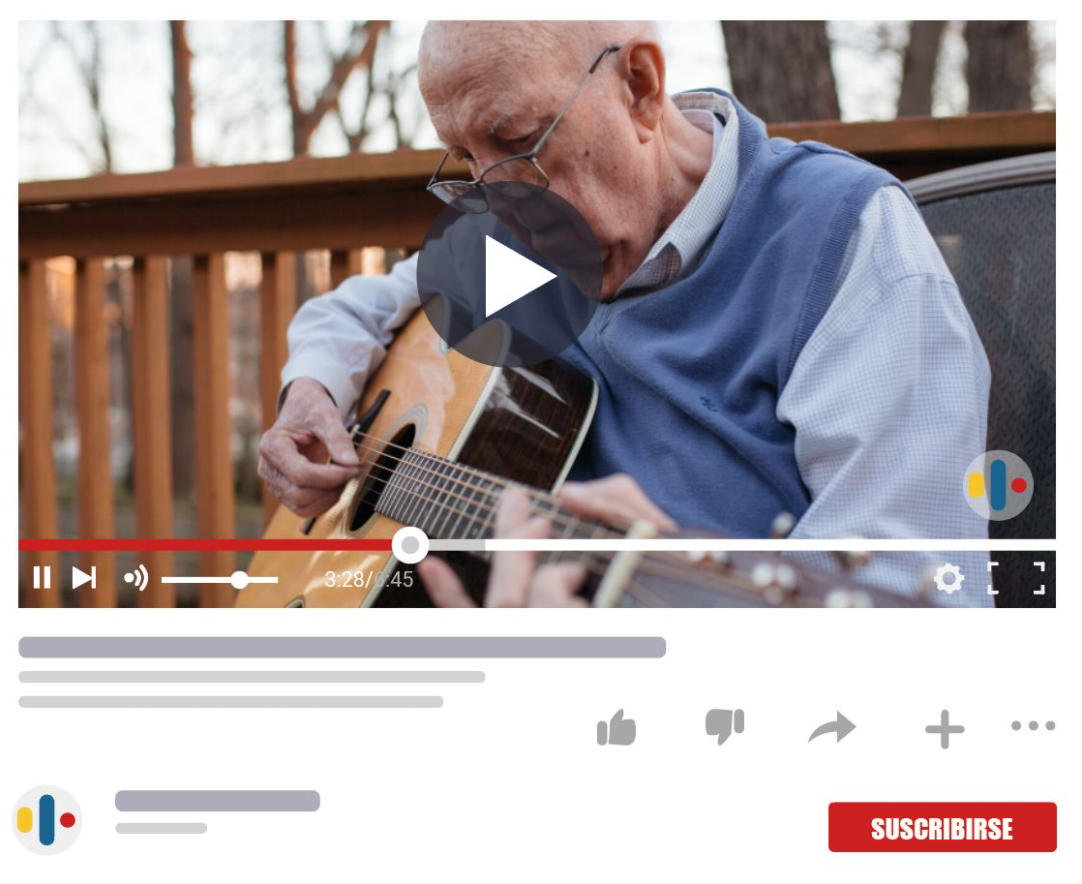
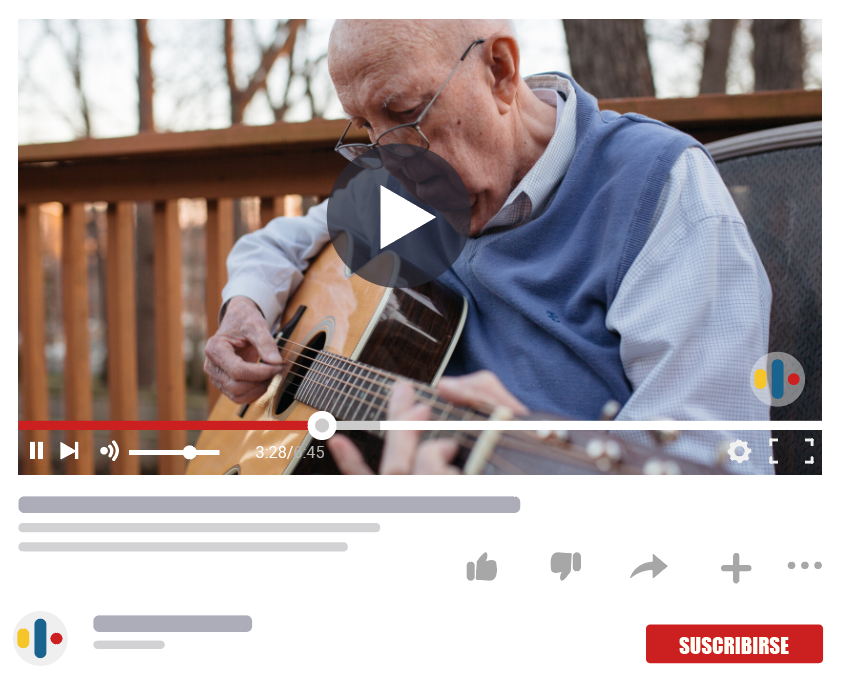
Arreglar width 100% con box-sizing:border box, agregar tercera tarjeta con hipervinculo de toda la tarjeta, quitar navbar celular

diff --git a/index.html b/index.html
@@ -13,7 +13,7 @@
   <div class="header">
     <div class="navbar">
       <div class="header__logo">
-        <img class="header__logo-img" src="/media/Logo.JPG" alt="logo">
+        <img class="header__logo__img" src="/media/Logo.JPG" alt="logo">
         <span>Sesiones</span>
       </div>
       
@@ -44,13 +44,11 @@
   </div>
 
   <!-- CONTENT 2 -->
-  <div class="content">
+  
+  <div class="content content-2">
     <div class="content__info content__info__content-2">
       <h1 class="content__info-title content__info-title_content_2">Comparte de manera privada con tus mejores amigos e invítalos a participar</h1>
       <p class="content__info-p">Sesiones se encarga de entregarte tus producciones en audio o video, con una calidad profesional vía YouTube. Canta, lee, silba, guitarrea o percute lo que quieras desde la primera sesión, sin necesidad de tener ensayos previos.</p>
-      <div class="content__info__buttons">
-        <!-- <a href="#"><button class="content__info-button buttons-llamar btn">Whatsapp</button></a>   -->
-      </div>
     </div>
 
     <div class="content__for_img content__for_img_content_2">
@@ -61,7 +59,22 @@
     <div class="content_2_spacer_2"></div>
   </div>
 
+  <!-- CONTENT 3 -->
   
+  <div class="content">
+    <div class="content__info content__info__content-3">
+      <h1 class="content__info-title content__info-title_content_2">Conoce Sesiones por dentro</h1>
+      <p class="content__info-p">Averigua un poco más acerca de los novedosos recuerdos que podrías crear</p>
+    </div>
+
+    <div class="content__for_img content__for_img_content_3">
+      <img class="content-img content-img_content_3" src="./media/Foto_3.png" alt="Imagen familia">
+    </div>
+
+    <a href="https://www.youtube.com/watch?v=DCQrbXix7fg&ab_channel=JuanPabloGrimminck" target="_blank"><span class="link"></span></a>
+    <div class="content_3_spacer_1"></div>
+    <div class="content_3_spacer_2"></div>
+  </div>
 
 </body>
 </html>

diff --git a/css/content.css b/css/content.css
@@ -4,12 +4,22 @@ body {
   font-family: "Google Sans",Roboto,Arial,Helvetica,sans-serif;
 }
 
+.link {
+  position:absolute; 
+  width:100%;
+  height:100%;
+  top:0;
+  left: 0;
+  z-index: 1;
+}
+
 .header__buttons {
   display: flex;
   justify-content: space-between;
 }
 
 .content {
+  position: relative;
   display: flex;
   align-items: center;
   margin: 110px 7% 120px 7%;
@@ -118,6 +128,27 @@ body {
   width: 5%;
 }
 
+/* CONTENT_3 */
+.content__for_img_content_3 {
+  order: 4;
+  width: 50%;
+}
+
+.content_3_spacer_1 {
+  order: 1;
+  width: 5%;
+}
+
+.content__info__content-3 {
+  order: 2;
+  width: 35%;
+}
+
+.content_3_spacer_2 {
+  order: 3;
+  width: 10%;
+}
+
 /* TABLET HORIZONTAL */
 @media only screen and (max-width: 1200px) {
   
@@ -164,10 +195,19 @@ body {
   order: 1; 
 }
 
+.content-3 :nth-child(1) { 
+  order: 1; 
+}
+.content-3 :nth-child(2) { 
+  order: 2; 
+}
+
+
 .content__info {
-  width: auto;
-  padding: 15px 20px 15px 20px;
+  box-sizing: border-box;
+  width: 100%;
   
+  padding: 15px 20px 15px 20px;
   background-color: white;
 }
 
@@ -183,15 +223,9 @@ body {
   content: url("/media/Foto_2_celular.png");
 }
 
-.content__info__buttons {
-  display: flex;
-  flex-direction: row;
+.content-img_content_3 {
+  content: url("/media/Foto_3_celular.png");
 }
-
-.content__info-button {
-  margin: 0px;
-}
-
 
 .content__info-title {
   font-size: 22px;
@@ -214,13 +248,13 @@ body {
   text-size-adjust: 100%;
 }
 
-.buttons-llamar {
-  width: 100px;
-}
-
 /* CELULAR */
 @media only screen and (max-width: 600px) {
   .spacing {
-    margin-top: 100px;
+    margin-top: 30px;
+  }
+
+  .header {
+    display: none;
   }
 }

diff --git a/css/nav.css b/css/nav.css
@@ -1,9 +1,9 @@
 .header {
   overflow: hidden;
-  position: fixed; /* Set the navbar to fixed position */
-  top: 0; /* Position the navbar at the top of the page */
-  width: 100%; /* Full width */
-  transition: top 0.3s; /* Transition effect when sliding down (and up) */
+  position: fixed;
+  top: 0;
+  width: 100%;
+  z-index: 10;
 }
 
 .header__logo {
@@ -17,12 +17,12 @@
   padding: 10px 0px;
 }
 
-.header__logo-img {
+.header__logo__img {
   cursor: pointer;
   width: 50px;
   height: 50px;
 
-  margin: 0px 20px 0px 0px;
+  margin-right: 20px;
 }
 
 .navbar {

diff --git a/css/contact.css b/css/contact.css
@@ -8,10 +8,7 @@
 	text-align:center;
 
     display: none;
-}
-
-.my-float{
-	margin-top:22px;
+    z-index: 9;
 }
 
 /* TABLET HORIZONTAL */
